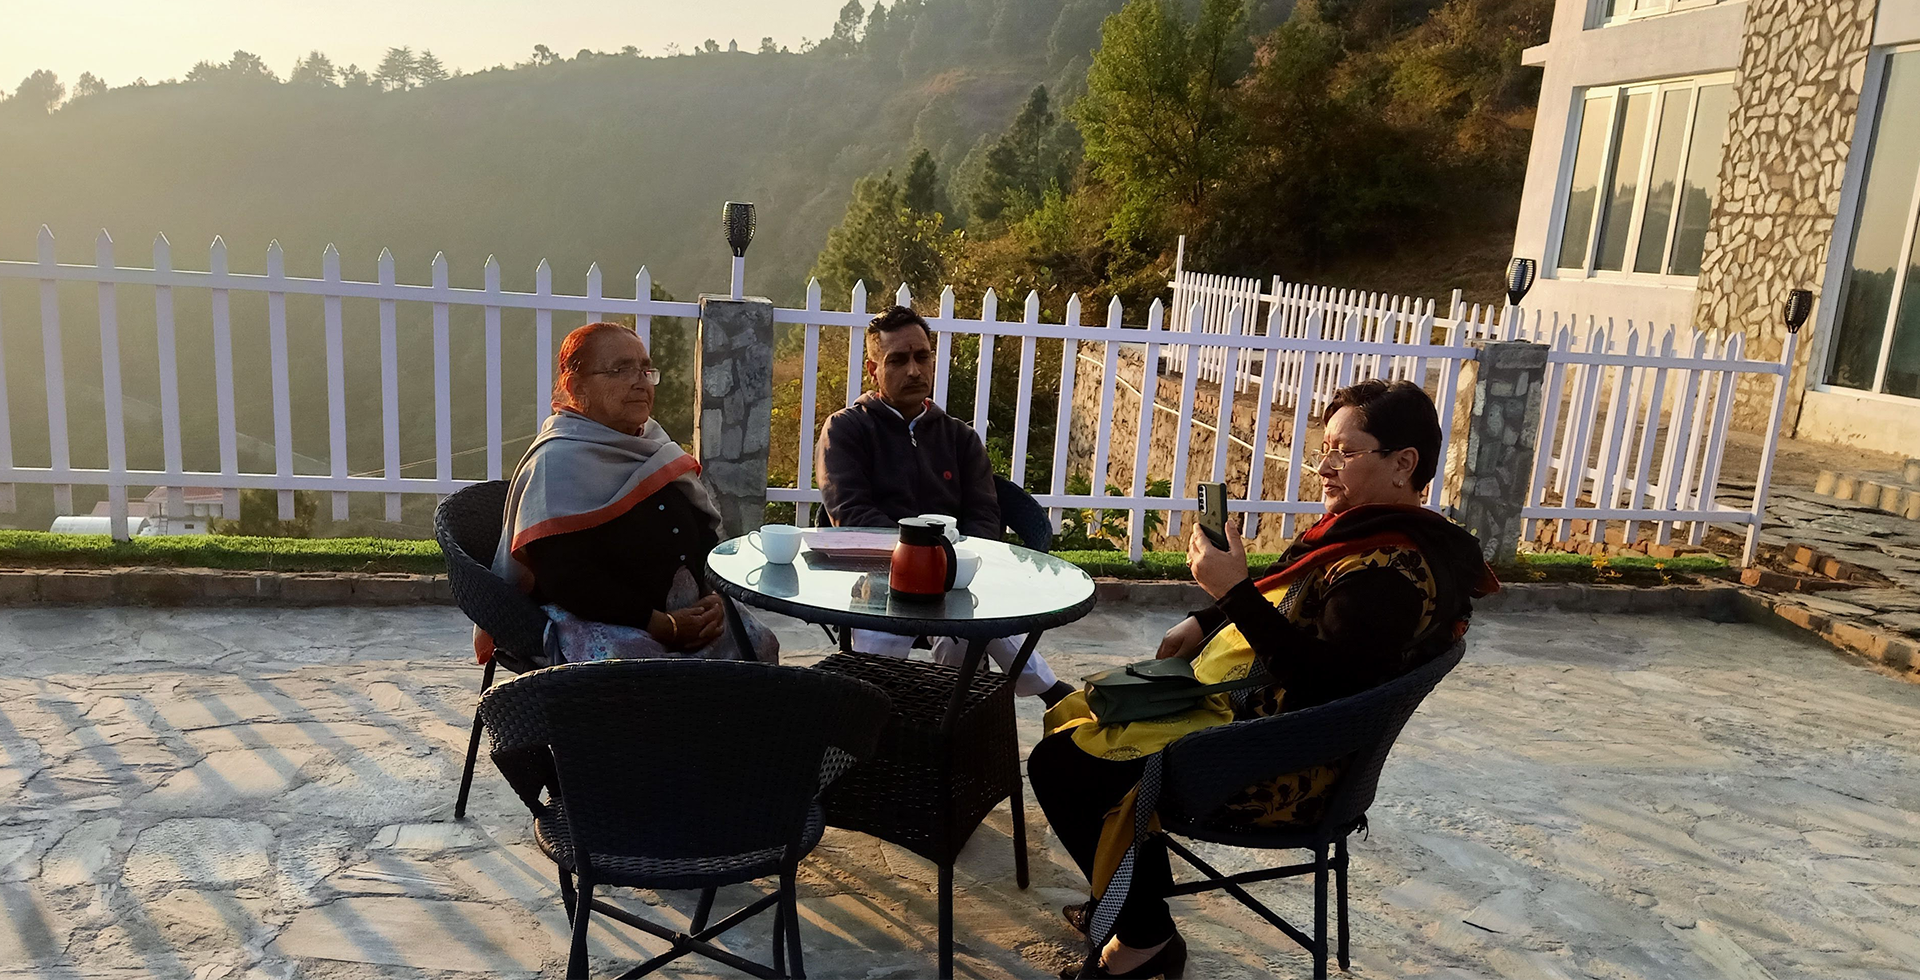
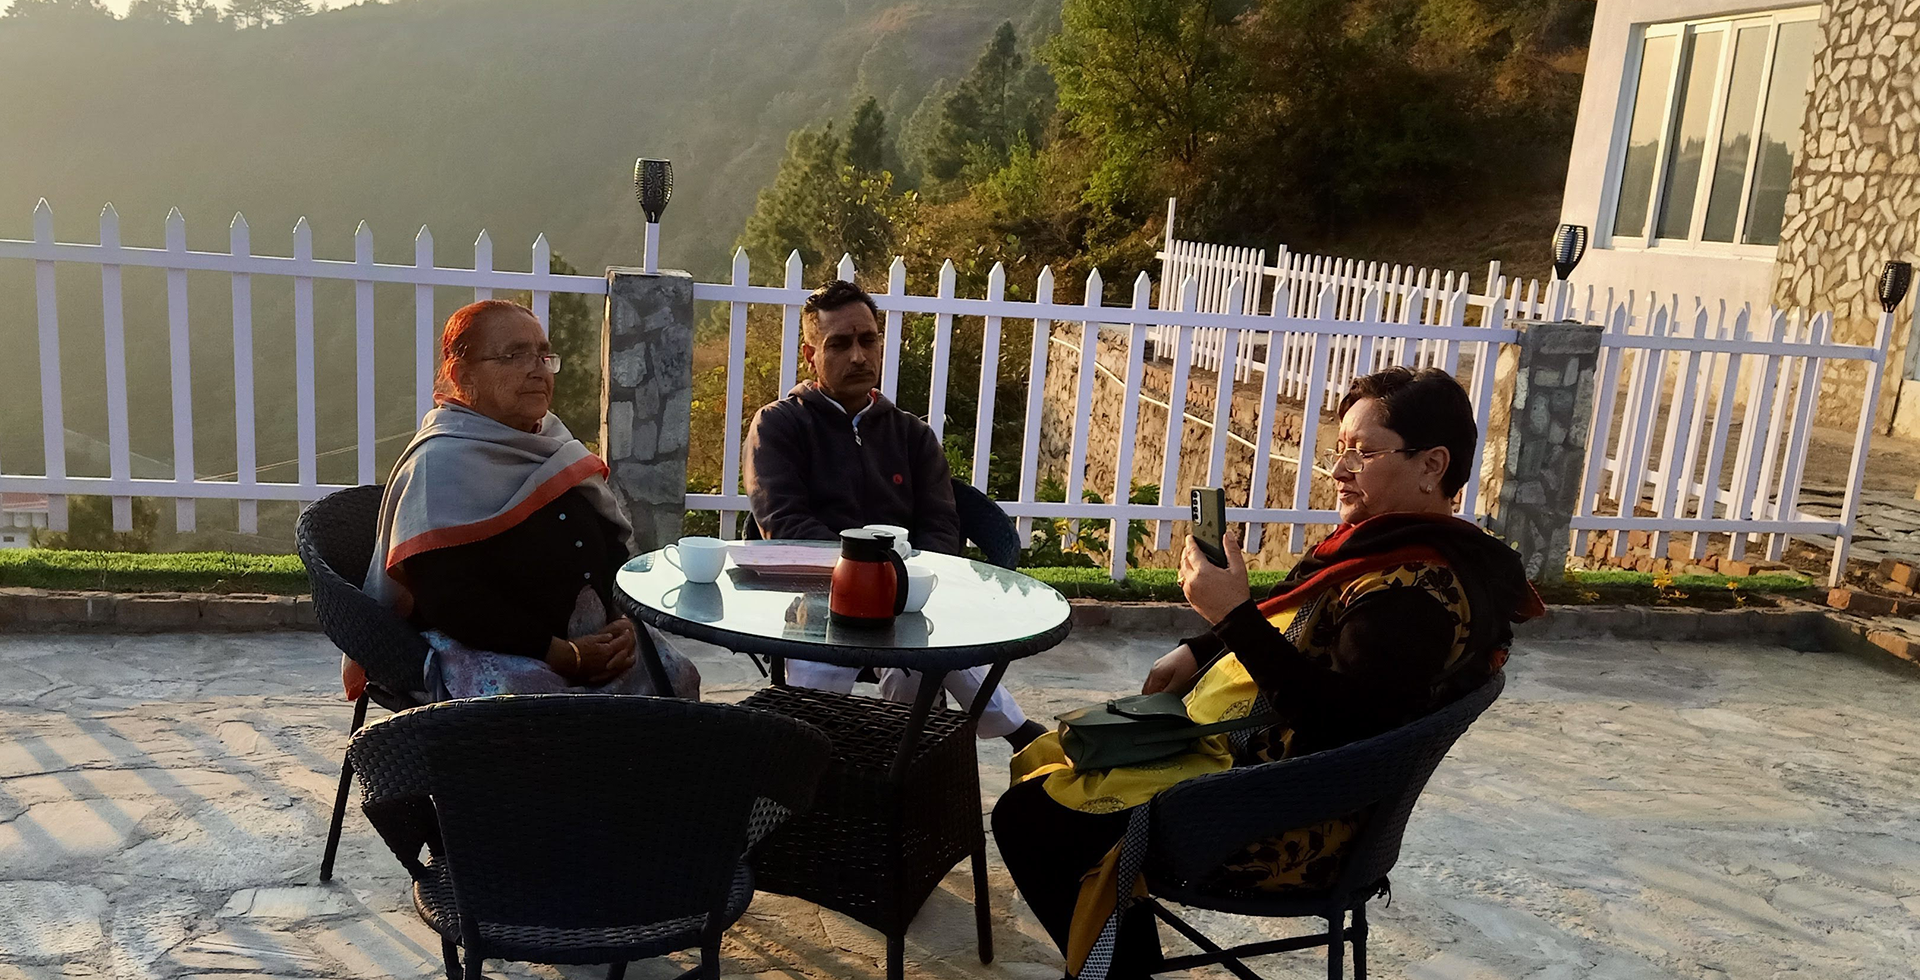
changes
changes

diff --git a/index.php b/index.php
@@ -31,8 +31,8 @@
         <section class="section-slider">
         <div class="home-slider">
             <ul class="rslides" id="slider1">
-                <li><img src="images/slider/img-1.png" alt="slide1"></li>                                    
-                <li><img src="images/slider/img-2.png" alt="slide2"></li>           
+                <li><img src="images/slider/img-11.jpg" alt="slide1"></li>                                    
+                <li><img src="images/slider/img-22.jpg" alt="slide2"></li>           
             </ul>
         </div>
         </section>
